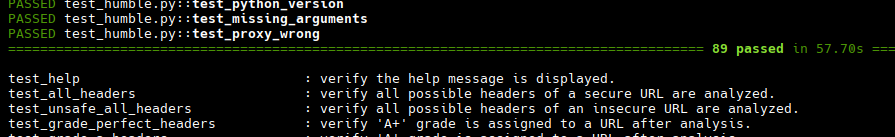
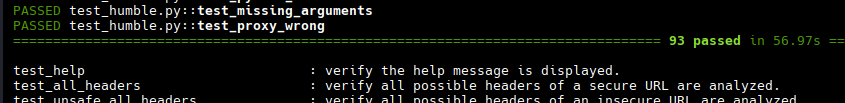
Feature: 97% code coverage

Changed region(s): [[0.0, 0.0, 1.0, 1.0], [0.3385, 0.5243, 0.9538, 1.0]]

diff --git a/tests/test_humble.py b/tests/test_humble.py
@@ -50,6 +50,7 @@ WIN_COV_ERROR = (
 if system().lower() == "windows" and any("--cov" in arg for arg in sys.argv):
     pytest.fail(WIN_COV_ERROR)
 
+ASSERT_STR = ["error", "Error"]
 EXTENDED_TAGS = ['[test_python_version]', '[test_missing_arguments]']
 HUMBLE_TESTS_DIR = path.dirname(__file__)
 HUMBLE_TEMP_HISTORY = path.join(HUMBLE_TESTS_DIR, 'analysis_h.txt')
@@ -192,6 +193,7 @@ TEST_CFGS = {
     'test_fingerprint_groups': (['-f'], 'Top 20 groups'),
     'test_fingerprint_term': (['-f', 'Google'], 'Headers related to'),
     'test_fingerprint_term_no_results': (['-f', 'TestingHumble'], 'quote'),
+    'test_file_access_errors': ([], 'Error'),
     'test_global_statistics': (['-a'], 'Empty headers'),
     'test_http_exception': (['-u', TEST_URLS[13]], 'scheme'),
     'test_input_file': (['-u', TEST_URLS[2], '-if', HUMBLE_INPUT_FILE],
@@ -398,12 +400,37 @@ def test_cicd_error(capsys):
     humble_module.l10n_main = l10n_main
     humble_module.args = args
     with patch.object(humble_module, 'get_cicd_labels', side_effect=Exception):
-        with patch.object(humble_module, 'get_detail', return_value="Error"):
+        with patch.object(humble_module, 'get_detail',
+                          return_value=ASSERT_STR[1]):
             with pytest.raises(SystemExit) as wrapped_exit:
                 humble_module.print_cicd_totals("any_file.tmp")
             assert wrapped_exit.value.code == 1
     captured = capsys.readouterr()
-    assert "error" in captured.out.lower()
+    assert ASSERT_STR[0] in captured.out.lower()
+
+
+def test_file_access_errors(capsys):
+    """
+    Verify an error is displayed if the export or history files can not be
+    accessed or created
+    """
+    with suppress(SystemExit):
+        _spec.loader.exec_module(humble_module)
+    humble_module.l10n_main, humble_module.args = l10n_main, args
+    with patch("builtins.open", side_effect=OSError), \
+         patch.object(humble_module, 'delete_lines'):
+        _, res = humble_module.validate_file_access("f.txt", context='history')
+        assert res[0] in ("Not available", "No disponible")
+        with patch.object(humble_module, 'get_detail',
+                          return_value=HUMBLE_TEMP_HISTORY):
+            humble_module.validate_file_access("f.txt", context='basic')
+            assert HUMBLE_TEMP_HISTORY in capsys.readouterr().out.lower()
+        with patch.object(humble_module, 'get_detail',
+                          return_value=ASSERT_STR[1]):
+            with pytest.raises(SystemExit) as wrapped_exit:
+                humble_module.validate_file_access("f.txt", context='export')
+            assert wrapped_exit.value.code == 1
+            assert ASSERT_STR[0] in capsys.readouterr().out.lower()
 
 
 def test_testssl_error(capsys):
@@ -415,7 +442,7 @@ def test_testssl_error(capsys):
             humble_module.testssl_analysis(TESTSSL_CMD)
         assert wrapped_exit.value.code == 1
     captured = capsys.readouterr()
-    assert "error" in captured.out.lower()
+    assert ASSERT_STR[0] in captured.out.lower()
 
 
 def test_outdated_humble(capsys):
@@ -479,7 +506,7 @@ def test_updates_error(capsys):
             humble_module.check_updates(date(2026, 1, 1))
         assert wrapped_exit.value.code == 1
     captured = capsys.readouterr()
-    assert "error" in captured.out.lower()
+    assert ASSERT_STR[0] in captured.out.lower()
 
 
 def test_missing_arguments():
